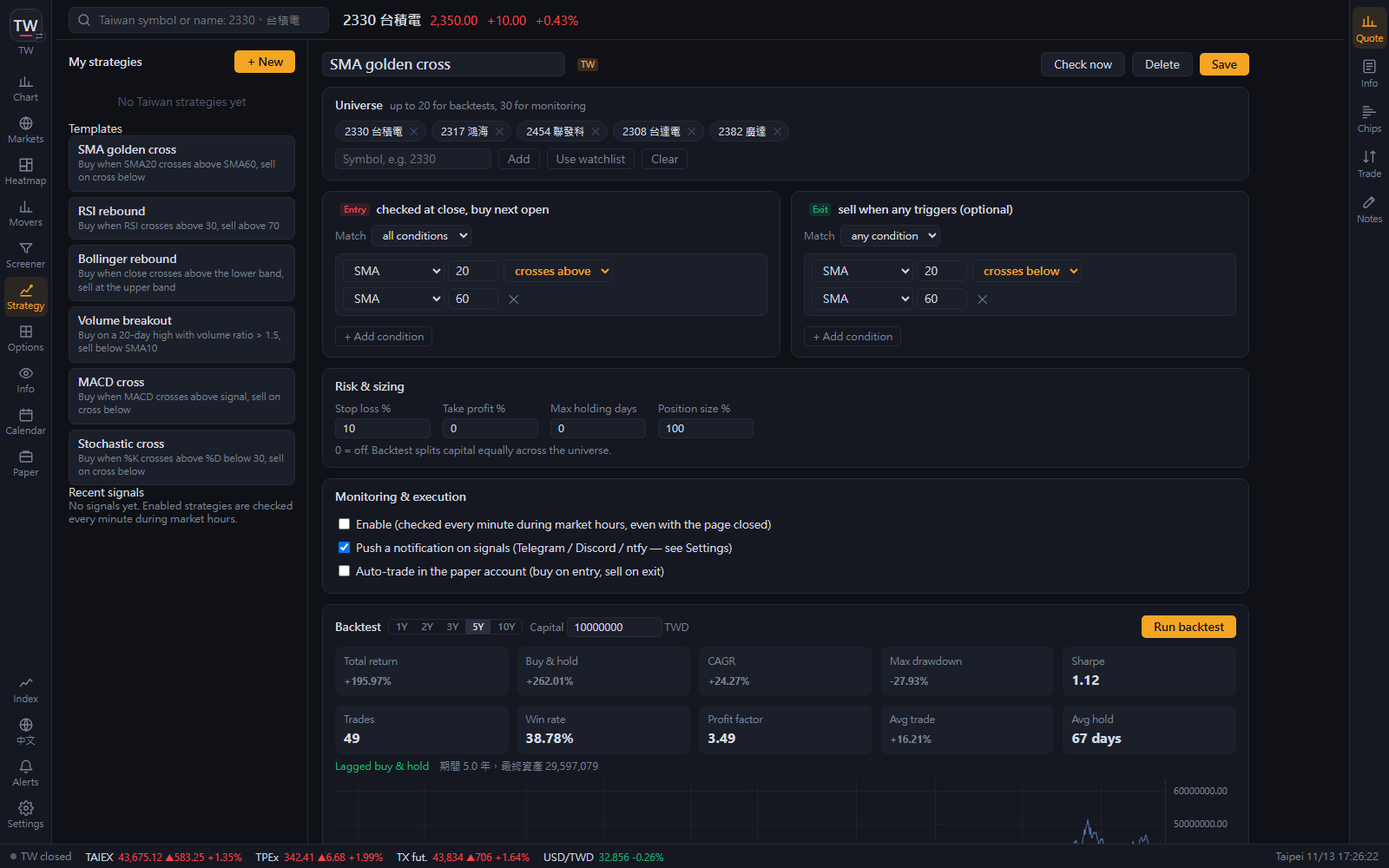
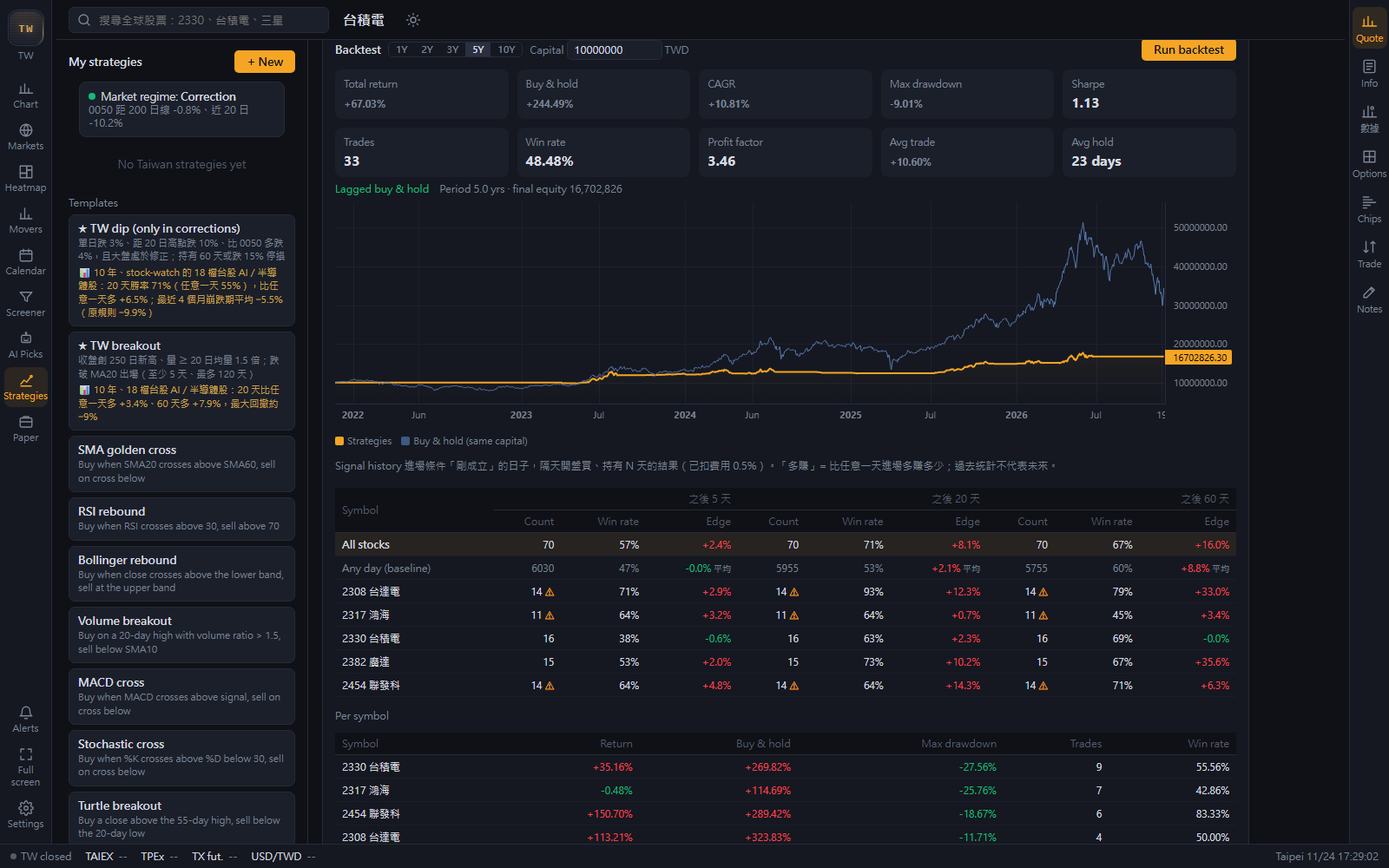
美股夜盤接進分K與分時全天、價格軸可切換百分比、美股時間軸改台北時間、美股熱力圖改用即時資料，更新回測與熱力圖截圖
- 夜盤：開啟盤前盤後的 1～30 分K、5日，以及分時「全天」都會向 Alpaca 補上夜盤（美東 20:00–04:00）K棒；夜盤時段即時報價也會更新最後一根
- 價格軸：圖表工具列與右鍵選單可切換「價格／漲跌百分比」，主圖與多圖共用設定
- 美股圖表（主圖、多圖）時間軸改用台北時間顯示，日期分組等邏輯仍依交易所時區
- 美股熱力圖：Nasdaq 快照常停在前一交易日，改用 Alpaca 批次快照（無金鑰時用 Yahoo）蓋上最新漲跌
- README：更新回測、美股熱力圖截圖與功能說明

diff --git a/web/app.js b/web/app.js
@@ -84,7 +84,7 @@ const state = {
   sideTab: 'book',
   list: [], listMap: {}, names: store.get('tw.names', {}),
   quotes: {}, sparks: {},
-  bars: [], prev: null, off: 8 * 3600, sessionEnd: null, lastVol: null,
+  bars: [], prev: null, off: 8 * 3600, dOff: 8 * 3600, sessionEnd: null, lastVol: null,
   paper: null, paperAI: null, paperAcct: store.get('tw.paperAcct', 'me'),
   ticket: { side: 'buy', type: 'limit', unit: 1000, price: '', qty: 1 },
   magnet: store.get('tw.magnet2', false), // 預設關閉磁吸，畫線完全自由
@@ -248,7 +248,7 @@ new ResizeObserver(([e]) => {
   else { const n = state.bars.length; mainChart.timeScale().setVisibleLogicalRange({ from: Math.max(0, n - 120), to: n + 4 }); }
 }).observe($('#chartMain'));
 const draw = new Drawings($('#paneMain'), mainChart, {
-  series: () => primary, bars: () => state.bars, off: () => state.off, magnet: () => state.magnet,
+  series: () => primary, bars: () => state.bars, off: () => state.dOff, magnet: () => state.magnet,
   step: () => { const P = PERIODS[state.period]; return P.agg || STEP_OF[P.interval] || { '1d': 86400, '1wk': 604800, '1mo': 2629800 }[P.interval] || 0; },
   save: (items) => store.set('tw.draw.' + state.code, items),
 });
@@ -265,7 +265,8 @@ function mkSeries(chart, list, type, opts) {
   const s = chart['add' + type + 'Series'](opts); s._type = type; list.push(s); return s;
 }
 const priceLine = (s, o) => { if (!SOFT && s) s.createPriceLine(o); };
-const toTime = (t) => t + state.off;
+// 圖表上的時間：美股改用台北時間顯示（state.dOff），日期分組等邏輯仍用交易所時區（state.off）
+const toTime = (t) => t + state.dOff;
 const lineData = (bars, vals) => bars.map((b, i) => (vals[i] == null || isNaN(vals[i]) ? { time: toTime(b.t) } : { time: toTime(b.t), value: vals[i] }));
 function addLine(chart, list, l, bars) {
   const s = mkSeries(chart, list, 'Line', { color: l.color, lineWidth: 1, priceLineVisible: false, lastValueVisible: false, crosshairMarkerVisible: false,
@@ -457,7 +458,7 @@ async function loadKline(keepRange = false) {
   try {
     const d = await api(`/api/kline?code=${encodeURIComponent(code)}&interval=${P.interval}&range=${P.range}${useExt() ? '&ext=1' : ''}`);
     if (seq !== klineSeq) return;
-    state.off = d.gmtoffset ?? 8 * 3600; state.sessionEnd = d.ext && d.postEnd ? d.postEnd : d.sessionEnd;
+    state.off = d.gmtoffset ?? 8 * 3600; state.dOff = isUS(code) ? 8 * 3600 : state.off; state.sessionEnd = d.ext && d.postEnd ? d.postEnd : d.sessionEnd;
     state.regular = d.ext ? d.regular || [] : []; state.postEnd = d.postEnd;
     let bars = d.bars;
     if (state.period === 'tick' && bars.length) { const lastDay = Math.floor((bars[bars.length - 1].t + state.off) / 86400); bars = bars.filter((b) => Math.floor((b.t + state.off) / 86400) === lastDay); }
@@ -468,7 +469,7 @@ async function loadKline(keepRange = false) {
       // 夜盤：現在正在夜盤就看這一晚（當地 20:00 起 8 小時，週日晚上也算），否則看最近一個交易日開盤前那一晚
       const nightNow = state.quotes[code]?.session === 'OVERNIGHT';
       const lh = ((((now + state.off) / H) % 24) + 24) % 24, n0 = now - ((lh - 20 + 24) % 24) * H;
-      const W = { all: [reg[0] - 5.5 * H, reg[1] + 4 * H], pre: [reg[0] - 5.5 * H, reg[0]], reg: [reg[0], reg[1]], post: [reg[1], reg[1] + 4 * H],
+      const W = { all: [reg[0] - 13.5 * H, reg[1] + 4 * H], // 全天＝前一晚夜盤＋盤前＋盤中＋盤後 pre: [reg[0] - 5.5 * H, reg[0]], reg: [reg[0], reg[1]], post: [reg[1], reg[1] + 4 * H],
         night: nightNow ? [n0, n0 + 8 * H] : [reg[0] - 13.5 * H, reg[0] - 5.5 * H] }[m];
       bars = bars.filter((b) => b.t >= W[0] && b.t < W[1]);
       state.tickWin = W; state.sessShown = m; state.sessionEnd = W[1];
@@ -478,6 +479,22 @@ async function loadKline(keepRange = false) {
         const n = await api(`/api/overnight?code=${encodeURIComponent(code)}&start=${Math.floor(W[0])}&end=${Math.floor(W[1])}`).catch((e) => ({ bars: [], error: e.message }));
         if (seq !== klineSeq) return;
         bars = n.bars || []; state.nightErr = n.error || null;
+      }
+    }
+    // 美股夜盤（美東 20:00–04:00）Yahoo 沒有：分時「全天」與開啟盤前盤後的分鐘K，向 Alpaca 補上夜盤K棒
+    const wantNight = isUS(code) && !code.includes('^') && bars.length && ((sessOn() && state.sessShown === 'all') || (state.period !== 'tick' && useExt() && P.interval.endsWith('m')));
+    if (wantNight) {
+      const step = STEP_OF[P.interval] || 60, tf = step >= 1800 ? '30Min' : step >= 900 ? '15Min' : step >= 300 ? '5Min' : '1Min';
+      const s0 = state.tickWin ? state.tickWin[0] : bars[0].t, s1 = state.tickWin ? state.tickWin[1] : Date.now() / 1000;
+      const n = await api(`/api/overnight?code=${encodeURIComponent(code)}&start=${Math.floor(s0)}&end=${Math.floor(s1)}&tf=${tf}`).catch(() => null);
+      if (seq !== klineSeq) return;
+      if (n?.bars?.length) {
+        const al = step >= 3600 ? 1800 : 0, have = new Set(bars.map((b) => b.t)), m = new Map(); // 60 分K 跟 Yahoo 一樣對齊在 :30
+        for (const b of n.bars) {
+          const t = Math.floor((b.t - al) / step) * step + al, x = m.get(t);
+          if (!x) m.set(t, { ...b, t }); else { x.h = Math.max(x.h, b.h); x.l = Math.min(x.l, b.l); x.c = b.c; x.v += b.v; }
+        }
+        bars = [...bars, ...[...m.values()].filter((b) => !have.has(b.t))].sort((a, b) => a.t - b.t);
       }
     }
     if (P.agg) bars = aggregate(bars, P.agg, state.off);
@@ -510,7 +527,7 @@ function liveUpdate() {
   if (sessOn() && state.sessMode === 'auto' && state.sessShown && sessResolved() !== state.sessShown) { loadKline(); return; }
   if (sessOn() && state.tickWin && q && ((state.sessShown === 'night' && !q.ext?.night) || (q.ext?.ts || q.ts) >= state.tickWin[1])) return;
   if (q && sessOn() && state.sessShown === 'night' && q.ext?.night) q = { ...q, ts: q.ext.ts, price: q.ext.price, volume: null, isOpen: true };
-  if (q && useExt() && (q.session === 'PRE' || q.session === 'POST') && q.ext?.ts) q = { ...q, ts: q.ext.ts, price: q.ext.price, volume: null, isOpen: true };
+  if (q && useExt() && (q.session === 'PRE' || q.session === 'POST' || (q.session === 'OVERNIGHT' && q.ext?.night)) && q.ext?.ts) q = { ...q, ts: q.ext.ts, price: q.ext.price, volume: null, isOpen: true };
   if (!q?.ts || q.price == null || !state.bars.length || !q.isOpen) return;
   const step = INTRADAY_LIVE.has(state.period) ? P.agg || ({ '1m': 60, '2m': 120, '5m': 300 }[P.interval]) : 0;
   if (!step && P.interval !== '1d' && P.interval !== '1wk' && P.interval !== '1mo') return;
@@ -567,7 +584,7 @@ function renderDrawBar() {
 draw.onTool = () => renderDrawBar();
 draw.onConvert = () => toast('已轉成手畫線，可以拖曳調整');
 // 自動畫線：勾選要哪些（可複選），勾了就畫，全部取消就關掉
-function updateAuto() { draw.setAuto(state.autoKinds.length ? autoDraw(state.bars, state.off, state.autoKinds) : []); }
+function updateAuto() { draw.setAuto(state.autoKinds.length ? autoDraw(state.bars, state.dOff, state.autoKinds) : []); }
 function autoPop(btn) {
   let p = $('#autoPop');
   if (p) { p.remove(); return; }
@@ -680,6 +697,7 @@ $('#watchList').addEventListener('click', (e) => { const r = e.target.closest('.
 ['#paneMain', '#paneSub1', '#paneSub2'].forEach((s) => $(s).addEventListener('contextmenu', (e) => {
   if (draw.tool !== 'cursor') return; e.preventDefault();
   openMenu(e.clientX, e.clientY, [
+    { label: state.pctAxis ? '價格軸改回價格' : '價格軸改成百分比', act: togglePctAxis },
     { label: '回到最新 K 棒', act: () => { const n = state.bars.length; mainChart.timeScale().setVisibleLogicalRange({ from: Math.max(0, n - 120), to: n + 4 }); allCharts.forEach((c) => c.priceScale('right').applyOptions({ autoScale: true })); } },
     { label: '重設圖表（重新載入）', act: () => resetChart() },
   ]);
@@ -1358,3 +1376,14 @@ function toggleFullscreen(el) {
 }));
 document.addEventListener('keydown', (e) => { if (e.key === 'Escape' && document.body.classList.contains('pseudo-fs')) toggleFullscreen(); });
 $('#chartFsBtn').addEventListener('click', () => toggleFullscreen($('#viewChart')));
+// 價格軸：價格 / 漲跌百分比（以畫面最左邊那根 K 棒為 0%）。主圖與多圖共用同一個設定
+state.pctAxis = store.get('tw.pctAxis', false);
+function applyPctAxis() {
+  mainChart.priceScale('right').applyOptions({ mode: state.pctAxis ? LightweightCharts.PriceScaleMode.Percentage : LightweightCharts.PriceScaleMode.Normal });
+  $('#pctBtn').classList.toggle('active', state.pctAxis); $('#mtPct')?.classList.toggle('active', state.pctAxis);
+  if (typeof mtState !== 'undefined') mtState.charts.forEach((m) => m?.chart.priceScale('right').applyOptions({ mode: state.pctAxis ? 2 : 0 }));
+  setTimeout(() => draw.redraw(), 30);
+}
+function togglePctAxis() { state.pctAxis = !state.pctAxis; store.set('tw.pctAxis', state.pctAxis); applyPctAxis(); toast(state.pctAxis ? '價格軸：漲跌百分比' : '價格軸：價格'); }
+$('#pctBtn').addEventListener('click', togglePctAxis);
+applyPctAxis();

diff --git a/web/i18n.js b/web/i18n.js
@@ -163,7 +163,7 @@ Object.assign(I18N_EN, {
   '入選理由': 'Why it was picked', '持有': 'Held', '策略（各自最佳參數）': 'Strategy (best parameters)', '近 3 月': '3M', '近 6 月': '6M', '近 12 月': '12M', '近 3 年': '3Y',
   '近 12 月夏普': '12M Sharpe', '3 年最大回撤': '3Y max drawdown', '等權重全買股票池': 'Equal-weight universe', '選策略的日期': 'Selection date', '當時選中': 'Picked then',
   '下一季': 'Next quarter', '等權重': 'Equal-weight', '台股市值前': 'Top Taiwan stocks by market cap:', '美股市值前': 'Top US stocks by market cap:', ' 檔': '',
-  '我的': 'Mine', 'Minervini 趨勢模板（均線多頭排列、200 日線上升、離低點遠、近高點），挑相對強度最高': 'Minervini trend template (stacked MAs, rising 200-day, far above the low, near the high), highest relative strength', '大盤跌破 200 日線就空手': 'Cash below the 200-day MA', '市場廣度不足就空手': 'Cash when breadth is weak', '跌破 200 日線空手、出現追蹤日提早進場': 'Cash below the 200-day MA, re-enter early on a follow-through day', '股票池站上 50、200 日線的比例平均低於 40% 就空手': 'Cash when under 40% of the universe is above its 50/200-day MAs', '大盤跌破 200 日線就空手，但出現追蹤日（底部確認）就提早進場': 'Cash below the 200-day MA, but re-enter early on a follow-through day', '大盤狀態': 'Market', '市場廣度': 'Breadth', '建議事後追蹤': 'Pick follow-up', '實盤': 'Live', '回填': 'Backfill', '空手': 'Cash', '持股': 'Invested', '來源': 'Source', '大盤濾網': 'Market filter', '5 日後': '+5d', '20 日後': '+20d', '通過壓力測試': 'Passed stress tests', '第二階段趨勢模板': 'Stage 2 trend template', '追蹤日濾網': 'FTD filter', '廣度濾網': 'Breadth filter', '200 日線濾網': '200-day MA filter', '前半段 vs 等權重': '1st half vs EW', '後半段 vs 等權重': '2nd half vs EW', '選法穩定': 'Stable method', '選法不穩定': 'Unstable method', '近 1 月': '1M', '選策略方式比較': 'Selection methods compared', '看哪些期間': 'Lookback', '多久重選': 'Re-select', '累積報酬': 'Cumulative', '最大回撤': 'Max drawdown', '贏等權重的次數': 'Periods beating equal-weight', '每月': 'Monthly', '每季': 'Quarterly', '採用': 'In use', '交易所時間': 'exchange time', '夜盤交易中': 'Overnight', '還沒有動作。開盤時 AI 會自動建倉，之後依調倉週期換股。': 'No activity yet. The AI buys at the next open and rotates on its rebalance schedule.',
+  '我的': 'Mine', '價格軸：漲跌百分比': 'Price axis: % change', '價格軸：價格': 'Price axis: price', '價格軸改回價格': 'Price axis: show price', '價格軸改成百分比': 'Price axis: show %', 'Minervini 趨勢模板（均線多頭排列、200 日線上升、離低點遠、近高點），挑相對強度最高': 'Minervini trend template (stacked MAs, rising 200-day, far above the low, near the high), highest relative strength', '大盤跌破 200 日線就空手': 'Cash below the 200-day MA', '市場廣度不足就空手': 'Cash when breadth is weak', '跌破 200 日線空手、出現追蹤日提早進場': 'Cash below the 200-day MA, re-enter early on a follow-through day', '股票池站上 50、200 日線的比例平均低於 40% 就空手': 'Cash when under 40% of the universe is above its 50/200-day MAs', '大盤跌破 200 日線就空手，但出現追蹤日（底部確認）就提早進場': 'Cash below the 200-day MA, but re-enter early on a follow-through day', '大盤狀態': 'Market', '市場廣度': 'Breadth', '建議事後追蹤': 'Pick follow-up', '實盤': 'Live', '回填': 'Backfill', '空手': 'Cash', '持股': 'Invested', '來源': 'Source', '大盤濾網': 'Market filter', '5 日後': '+5d', '20 日後': '+20d', '通過壓力測試': 'Passed stress tests', '第二階段趨勢模板': 'Stage 2 trend template', '追蹤日濾網': 'FTD filter', '廣度濾網': 'Breadth filter', '200 日線濾網': '200-day MA filter', '前半段 vs 等權重': '1st half vs EW', '後半段 vs 等權重': '2nd half vs EW', '選法穩定': 'Stable method', '選法不穩定': 'Unstable method', '近 1 月': '1M', '選策略方式比較': 'Selection methods compared', '看哪些期間': 'Lookback', '多久重選': 'Re-select', '累積報酬': 'Cumulative', '最大回撤': 'Max drawdown', '贏等權重的次數': 'Periods beating equal-weight', '每月': 'Monthly', '每季': 'Quarterly', '採用': 'In use', '交易所時間': 'exchange time', '夜盤交易中': 'Overnight', '還沒有動作。開盤時 AI 會自動建倉，之後依調倉週期換股。': 'No activity yet. The AI buys at the next open and rotates on its rebalance schedule.',
   'AI 還沒有持股：開盤時會依「AI 選股」頁的策略自動買進。': 'No AI holdings yet — it buys at the next open using the strategy on the AI Picks page.',
   '策略與每日建議在「AI 選股」頁': 'Strategy and daily picks are on the AI Picks page', 'AI 自動管理，點一列切到該股票': 'Managed by the AI · click a row to open the chart',
   // 策略名稱與說明

diff --git a/web/features.js b/web/features.js
@@ -369,7 +369,7 @@ PAGES.multi = {
     $('#mtGrid').style.gridTemplateColumns = `repeat(${cols}, 1fr)`; $('#mtGrid').style.gridTemplateRows = `repeat(${Math.ceil(n / cols)}, 1fr)`;
     $('#mtGrid').innerHTML = Array.from({ length: n }, (_, i) => `<div class="mt-cell" data-i="${i}"><div class="mt-h"><input class="tin mt-code" value="${esc(showCode(codes[i] || ''))}" placeholder="代號"><b class="mt-name"></b><span class="flex1"></span><span class="mt-q num"></span><button class="icon-btn" data-open title="開啟大圖">⤢</button></div><div class="mt-chart"></div></div>`).join('');
     $$('#mtGrid .mt-cell').forEach((cell, i) => {
-      const chart = LightweightCharts.createChart(cell.querySelector('.mt-chart'), { ...chartOpts(true), rightPriceScale: { borderColor: '#262b38', minimumWidth: 56, scaleMargins: { top: 0.1, bottom: 0.06 } } });
+      const chart = LightweightCharts.createChart(cell.querySelector('.mt-chart'), { ...chartOpts(true), rightPriceScale: { borderColor: '#262b38', minimumWidth: 56, scaleMargins: { top: 0.1, bottom: 0.06 }, mode: state.pctAxis ? 2 : 0 } });
       mtState.charts[i] = { chart, code: codes[i] || null, series: [] };
     });
     this.updateAll(true);
@@ -388,7 +388,7 @@ PAGES.multi = {
     try {
       const d = await this.fetchK(code, P);
       if (mtState.charts[i] !== m || m.code !== code || mtState.period !== period) return;
-      const off = d.gmtoffset ?? 8 * 3600, q = state.quotes[code];
+      const off = d.gmtoffset ?? 8 * 3600, doff = isUS(code) ? 8 * 3600 : off, q = state.quotes[code]; // 美股圖表用台北時間顯示
       let bars = d.bars; if (period === 'tick' && bars.length) { const day = Math.floor((bars.at(-1).t + off) / 86400); bars = bars.filter((b) => Math.floor((b.t + off) / 86400) === day); }
       if (P.agg) bars = aggregate(bars, P.agg, off);
       bars = sanitizeBars(bars, P.agg || STEP_OF[P.interval]);
@@ -397,10 +397,10 @@ PAGES.multi = {
       cell.querySelector('.mt-name').textContent = nameOf(code);
       this.showQ(i);
       const c = bars.map((b) => b.c), mas = [[20, '#f5a524'], [60, '#26c6da']];
-      const maData = (n) => { const v = IND.sma(c, n); return bars.map((b, j) => (v[j] == null ? { time: b.t + off } : { time: b.t + off, value: v[j] })); };
-      const lineD = bars.map((b) => ({ time: b.t + off, value: b.c })), candleD = bars.map((b) => ({ time: b.t + off, open: b.o, high: b.h, low: b.l, close: b.c }));
+      const maData = (n) => { const v = IND.sma(c, n); return bars.map((b, j) => (v[j] == null ? { time: b.t + doff } : { time: b.t + doff, value: v[j] })); };
+      const lineD = bars.map((b) => ({ time: b.t + doff, value: b.c })), candleD = bars.map((b) => ({ time: b.t + doff, open: b.o, high: b.h, low: b.l, close: b.c }));
       const base = period === 'tick' ? q?.prev : bars[0].c, col = bars.at(-1).c >= (base ?? 0) ? UP : DOWN;
-      m.bars = bars; m.off = off; m.step = P.agg || STEP_OF[P.interval] || 0;
+      m.bars = bars; m.off = off; m.doff = doff; m.step = P.agg || STEP_OF[P.interval] || 0;
       if (!full) { // 只更新資料
         if (P.line) { m.series[0].applyOptions({ lineColor: col, topColor: col + '33', bottomColor: col + '00' }); m.series[0].setData(lineD); }
         else { m.series[0].setData(candleD); mas.forEach(([n], k) => m.series[k + 1]?.setData(maData(n))); }
@@ -447,7 +447,7 @@ PAGES.multi = {
     } else if (mtState.period === 'D' && day(t) > day(last.t)) { // 日K：新的一天
       b = { t: t, o: q.open ?? px, h: q.high ?? px, l: q.low ?? px, c: px, v: 0 }; bars.push(b);
     } else { b.c = px; b.h = Math.max(b.h, px); b.l = Math.min(b.l, px); }
-    s.update(P.line ? { time: b.t + m.off, value: b.c } : { time: b.t + m.off, open: b.o, high: b.h, low: b.l, close: b.c });
+    s.update(P.line ? { time: b.t + m.doff, value: b.c } : { time: b.t + m.doff, open: b.o, high: b.h, low: b.l, close: b.c });
   },
   showQ(i) {
     const m = mtState.charts[i], cell = $$('#mtGrid .mt-cell')[i]; if (!m?.code || !cell) return;
@@ -468,6 +468,7 @@ $('#mtBack').addEventListener('click', () => setView('chart'));
 $('#mtLayout').addEventListener('click', (e) => { const b = e.target.closest('[data-l]'); if (!b) return; mtState.layout = +b.dataset.l; store.set('tw.mtLayout', mtState.layout); PAGES.multi.load(); });
 $('#mtPeriod').addEventListener('click', (e) => { const b = e.target.closest('[data-p]'); if (!b) return; mtState.period = b.dataset.p; store.set('tw.mtPeriod', mtState.period); PAGES.multi.load(); });
 $('#mtMore').addEventListener('change', (e) => { if (!e.target.value) return; mtState.period = e.target.value; store.set('tw.mtPeriod', mtState.period); PAGES.multi.load(); });
+$('#mtPct').addEventListener('click', () => togglePctAxis());
 $('#mtFill').addEventListener('click', () => { mtSave(state.watch.slice(0, 9)); PAGES.multi.build(); });
 $('#mtGrid').addEventListener('change', (e) => {
   if (!e.target.classList.contains('mt-code')) return;

diff --git a/web/index.html b/web/index.html
@@ -95,7 +95,7 @@
             </div>
           </div>
         </div>
-        <div class="tb-right"><button class="btn-ghost multi-btn" id="chartFsBtn" title="只有圖表全螢幕（Esc 離開）">⛶ 全螢幕</button><button class="btn-ghost multi-btn" id="multiBtn" title="多圖同框">⊞ 多圖</button><div class="overlay-sel" id="overlaySel"></div></div>
+        <div class="tb-right"><button class="btn-ghost multi-btn" id="pctBtn" title="價格軸切換成漲跌百分比（以畫面最左邊那根 K 棒為 0%）">%</button><button class="btn-ghost multi-btn" id="chartFsBtn" title="只有圖表全螢幕（Esc 離開）">⛶ 全螢幕</button><button class="btn-ghost multi-btn" id="multiBtn" title="多圖同框">⊞ 多圖</button><div class="overlay-sel" id="overlaySel"></div></div>
       </div>
       <div class="chart-area">
         <div class="draw-bar" id="drawBar"></div>
@@ -158,7 +158,7 @@
       <div class="toolbar"><b class="view-title">多圖同框</b>
         <div class="seg" id="mtLayout"><button data-l="4">2×2</button><button data-l="6">3×2</button><button data-l="9">3×3</button></div>
         <div class="seg" id="mtPeriod"></div><select class="tsel" id="mtMore" title="更多週期"></select>
-        <span class="flex1"></span><button class="btn-ghost" id="mtFill">用自選股填滿</button><button class="btn-ghost" id="mtBack">回單圖</button></div>
+        <span class="flex1"></span><button class="btn-ghost" id="mtPct" title="價格軸切換成漲跌百分比，方便比較不同股票">%</button><button class="btn-ghost" id="mtFill">用自選股填滿</button><button class="btn-ghost" id="mtBack">回單圖</button></div>
       <div class="mt-grid" id="mtGrid"></div>
     </section>
     <section class="view" id="viewMarket" hidden>

diff --git a/web/panels.js b/web/panels.js
@@ -229,7 +229,7 @@
   mainChart.subscribeCrosshairMove((p) => {
     if (cur !== 'chips' || state.layout.noRight || state.period !== 'D' || chipsBars.code !== state.code) return;
     let idx = null;
-    if (p.time) { const t = p.time - state.off; idx = chipsBars.bars.findIndex((b) => Math.abs(b.t - t) < 43200); if (idx < 0) idx = null; }
+    if (p.time) { const t = p.time - state.dOff; idx = chipsBars.bars.findIndex((b) => Math.abs(b.t - t) < 43200); if (idx < 0) idx = null; }
     if (idx !== chipsIdx) { chipsIdx = idx; drawChips(idx); }
   });
 

diff --git a/web/style.css b/web/style.css
@@ -872,3 +872,4 @@ html[data-theme="light"] .wreg { color: #3b55d9; background: rgba(59,85,217,.1);
 .sess-btn { padding: 3px 9px; margin-right: 6px; border-radius: 6px; border: 1px solid var(--line2); color: var(--text); font-size: 12.5px; white-space: nowrap; }
 .sess-btn.active { border-color: var(--accent); color: var(--accent); }
 .sess-btn:hover { border-color: var(--muted); }
+.btn-ghost.active { color: var(--accent); border-color: var(--accent); background: rgba(245,165,36,.1); }

diff --git a/server.py b/server.py
@@ -1548,7 +1548,10 @@ def alpaca_latest(codes):
 _alp_delayed = [False]  # 免費方案不能查最近 15 分鐘的 BOATS 分K
 
 
-def alpaca_night_bars(code, start, end):
+ALP_TF = {"1Min": 60, "5Min": 300, "15Min": 900, "30Min": 1800}
+
+
+def alpaca_night_bars(code, start, end, tf="1Min"):
     if not code.startswith("US."):
         return {"bars": [], "error": "只有美股有夜盤"}
     if not alpaca_on():
@@ -1559,11 +1562,12 @@ def alpaca_night_bars(code, start, end):
         return {"bars": []}
     iso = lambda t: datetime.fromtimestamp(t, timezone.utc).strftime("%Y-%m-%dT%H:%M:%SZ")
     sym = _alp_sym(code)
+    tf = tf if tf in ALP_TF else "1Min"; step = ALP_TF[tf]
 
     def get(stop):
         bars, tok = [], None
         for _ in range(5):
-            prm = {"symbols": sym, "timeframe": "1Min", "start": iso(start), "end": iso(stop), "limit": 10000, "sort": "asc", "feed": "boats"}
+            prm = {"symbols": sym, "timeframe": tf, "start": iso(start), "end": iso(stop), "limit": 10000, "sort": "asc", "feed": "boats"}
             if tok:
                 prm["page_token"] = tok
             d = _alp_get("/v2/stocks/bars", prm)
@@ -1588,12 +1592,15 @@ def alpaca_night_bars(code, start, end):
                 bars = get(stop) if stop > start else []
         if _alp_delayed[0] and end > now - 16 * 60:  # 最近 15 分鐘用最新成交補一根，之後由即時報價接著畫
             x = alpaca_latest([code]).get(code)
-            if x and start <= x["ts"] < end and (not bars or x["ts"] >= bars[-1]["t"] + 60):
-                t = x["ts"] // 60 * 60
-                bars.append({"t": t, "o": x["price"], "h": x["price"], "l": x["price"], "c": x["price"], "v": 0})
+            if x and start <= x["ts"] < end:
+                t = x["ts"] // step * step
+                if bars and bars[-1]["t"] == t:
+                    b = bars[-1]; b["c"] = x["price"]; b["h"] = max(b["h"], x["price"]); b["l"] = min(b["l"], x["price"])
+                elif not bars or t > bars[-1]["t"]:
+                    bars.append({"t": t, "o": x["price"], "h": x["price"], "l": x["price"], "c": x["price"], "v": 0})
         return {"bars": bars, "delayed": _alp_delayed[0]}
     try:
-        return cached(f"alp:bars:{sym}:{start}:{end // 30}:{now // 30}", 20, load)
+        return cached(f"alp:bars:{sym}:{tf}:{start}:{end // 30}:{now // 30}", 20, load)
     except AlpacaError as e:
         return {"bars": [], "error": str(e)}
 
@@ -2507,6 +2514,29 @@ def us_snapshot():
     return cached("ussnap", 120, load)
 
 
+def us_live_changes(codes):
+    """美股最新一個交易日的價格與漲跌幅：有 Alpaca 金鑰就用批次快照（一次 100 檔），否則用 Yahoo 報價。"""
+    out = {}
+    if alpaca_on():
+        try:
+            for i in range(0, len(codes), 100):
+                part = codes[i:i + 100]
+                d = _alp_get("/v2/stocks/snapshots", {"symbols": ",".join(_alp_sym(c) for c in part), "feed": "iex"})
+                for c in part:
+                    x = d.get(_alp_sym(c)) or {}
+                    cur, prev = (x.get("dailyBar") or {}).get("c"), (x.get("prevDailyBar") or {}).get("c")
+                    if cur and prev:
+                        out[c] = {"price": cur, "pct": (cur / prev - 1) * 100}
+            if out:
+                return out
+        except Exception as e:
+            print("alpaca snapshot error:", e, file=sys.stderr)
+    for c, q in (_safe(quotes, codes, {}) or {}).items():
+        if q.get("price") and q.get("prev"):
+            out[c] = {"price": q["price"], "pct": (q["price"] / q["prev"] - 1) * 100}
+    return out
+
+
 US_SECTOR_ZH = {"Technology": "科技", "Health Care": "醫療保健", "Finance": "金融", "Consumer Discretionary": "非必需消費", "Industrials": "工業",
                 "Energy": "能源", "Utilities": "公用事業", "Real Estate": "房地產", "Basic Materials": "原物料", "Consumer Staples": "必需消費",
                 "Telecommunications": "通訊", "Miscellaneous": "其他", "Other": "其他"}
@@ -2514,10 +2544,15 @@ US_SECTOR_ZH = {"Technology": "科技", "Health Care": "醫療保健", "Finance"
 
 def heatmap(mkt):
     if mkt == "us":
-        rows = sorted((r for r in us_snapshot() if r["mcap"] > 0), key=lambda r: -r["mcap"])[:300]
+        rows = [dict(r) for r in sorted((r for r in us_snapshot() if r["mcap"] > 0), key=lambda r: -r["mcap"])[:300]]
+        live = cached("hm:usq", 60, lambda: us_live_changes([r["code"] for r in rows]))  # Nasdaq 快照常停在前一個交易日，用即時資料蓋過去
         for r in rows:
             r["industryZh"] = US_SECTOR_ZH.get(r["industry"], r["industry"])
-        return {"mkt": "us", "rows": rows, "live": True, "updated": int(time.time())}
+            x = live.get(r["code"])
+            if x:
+                r["mcap"] = r["mcap"] * x["price"] / r["price"] if r.get("price") else r["mcap"]
+                r["price"], r["pct"] = x["price"], x["pct"]
+        return {"mkt": "us", "rows": rows, "live": bool(live), "updated": int(time.time())}
     rows = sorted((r for r in tw_snapshot() if r.get("mcap") and r["industry"] not in ("ETF", "存託憑證")), key=lambda r: -r["mcap"])[:250]
     rows = [dict(r) for r in rows]
 
@@ -2672,7 +2707,7 @@ class Handler(SimpleHTTPRequestHandler):
             elif u.path == "/api/config/alpaca":
                 self.send_json(config_alpaca_public())
             elif u.path == "/api/overnight":
-                self.send_json(alpaca_night_bars(q["code"], q["start"], q["end"]))
+                self.send_json(alpaca_night_bars(q["code"], q["start"], q["end"], q.get("tf", "1Min")))
             elif u.path == "/api/heatmap":
                 self.send_json(heatmap(q.get("mkt", "tw")))
             elif u.path == "/api/calweek":

diff --git a/README.md b/README.md
@@ -29,7 +29,7 @@ python server.py        # then open http://localhost:8765
 
 | | |
 |---|---|
-| **Charts** | 1D/5D intraday, 1m–4h, daily/weekly/monthly/quarterly/yearly · 6 overlays (MA, EMA, Bollinger, SAR, Envelope, Donchian) · 16 indicator panes (Volume, MACD, KD, RSI, BIAS, W%R, CCI, DMI, OBV, ATR, ROC, MTM, PSY, TRIX, DMA, VR) with adjustable parameters |
+| **Charts** | 1D/5D intraday, 1m–4h, daily/weekly/monthly/quarterly/yearly · US overnight session (20:00–04:00 ET) with a free Alpaca key · price axis switchable to % change · live ticks only update the last bar · 6 overlays (MA, EMA, Bollinger, SAR, Envelope, Donchian) · 16 indicator panes (Volume, MACD, KD, RSI, BIAS, W%R, CCI, DMI, OBV, ATR, ROC, MTM, PSY, TRIX, DMA, VR) with adjustable parameters |
 | **Drawing tools** | Trend line, ray, extended line, horizontal/vertical lines, parallel channel, rectangle, Fibonacci, measure, text — draggable, magnet snap, saved per symbol |
 | **Strategies & backtesting** | Visual condition builder (crosses above/below, >, <, …) over 38 price, volume and indicator inputs (MA, RSI, MACD, KD, Bollinger %B/width, ADX/DMI, CCI, Williams %R, MFI, OBV, SAR, bias, gaps, streaks, distance from N-day high…) · 16 templates · stop loss, take profit, trailing stop, max holding days · equity curve vs. buy & hold, CAGR, max drawdown, Sharpe, win rate, profit factor, trade log · fees and taxes included, next-open fills (no look-ahead) |
 | **Alerts & push** | Strategies are checked every minute during market hours (even with the page closed) · push to **Telegram**, **Discord** or **ntfy** · optional auto-trading in the paper account · simple price alerts too |

diff --git a/README.zh-TW.md b/README.zh-TW.md
@@ -30,7 +30,7 @@ python server.py        # 打開 http://localhost:8765
 
 **台股、美股兩個模式**：左上角切換，自選清單、分組、搜尋、排行、期權、新聞、日曆、模擬倉帳戶都各自獨立。
 
-- **看盤**：分時、5日、日／週／月／季／年 K、1～240 分 K；美股可顯示盤前（04:00–09:30）與盤後（16:00–20:00）
+- **看盤**：分時、5日、日／週／月／季／年 K、1～240 分 K；美股可顯示盤前（04:00–09:30）、盤後（16:00–20:00），填入 Alpaca 免費金鑰還能看夜盤（20:00–04:00）分時與分 K；美股時間軸以台北時間顯示；價格軸可切換成漲跌百分比；即時報價只更新最後一根 K 棒，不會打亂縮放
 - **技術指標**：主圖 MA、EMA、BOLL、SAR、包絡線、唐奇安；副圖 VOL、MACD、KD、RSI、BIAS、W%R、CCI、DMI、OBV、ATR、ROC、MTM、PSY、TRIX、DMA、VR（參數可調、最多兩個副圖）
 - **畫線**：趨勢線、射線、延長線、水平線、水平射線、垂直線、平行通道、矩形、黃金分割、測量、文字（可拖曳、磁吸，每檔分開儲存）
 - **自選股**：分組、排序、置頂、特別關注、備註、個股筆記、匯出 CSV、右鍵（手機長按）選單；刪除前會確認
